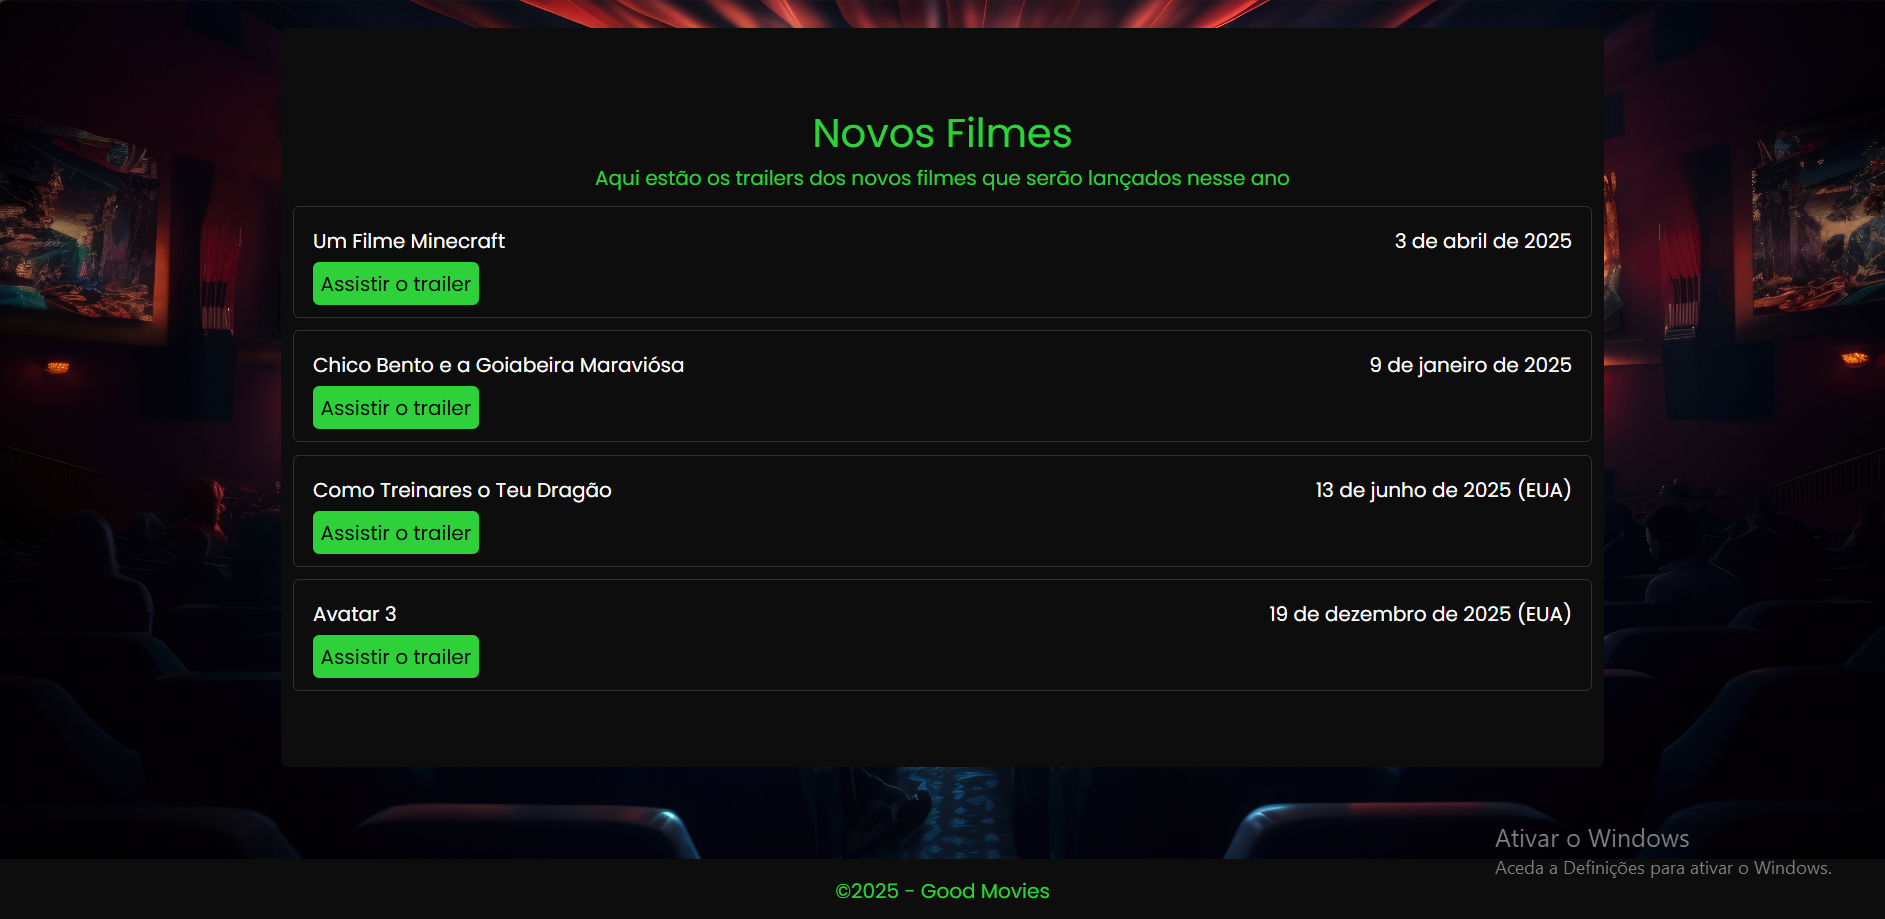
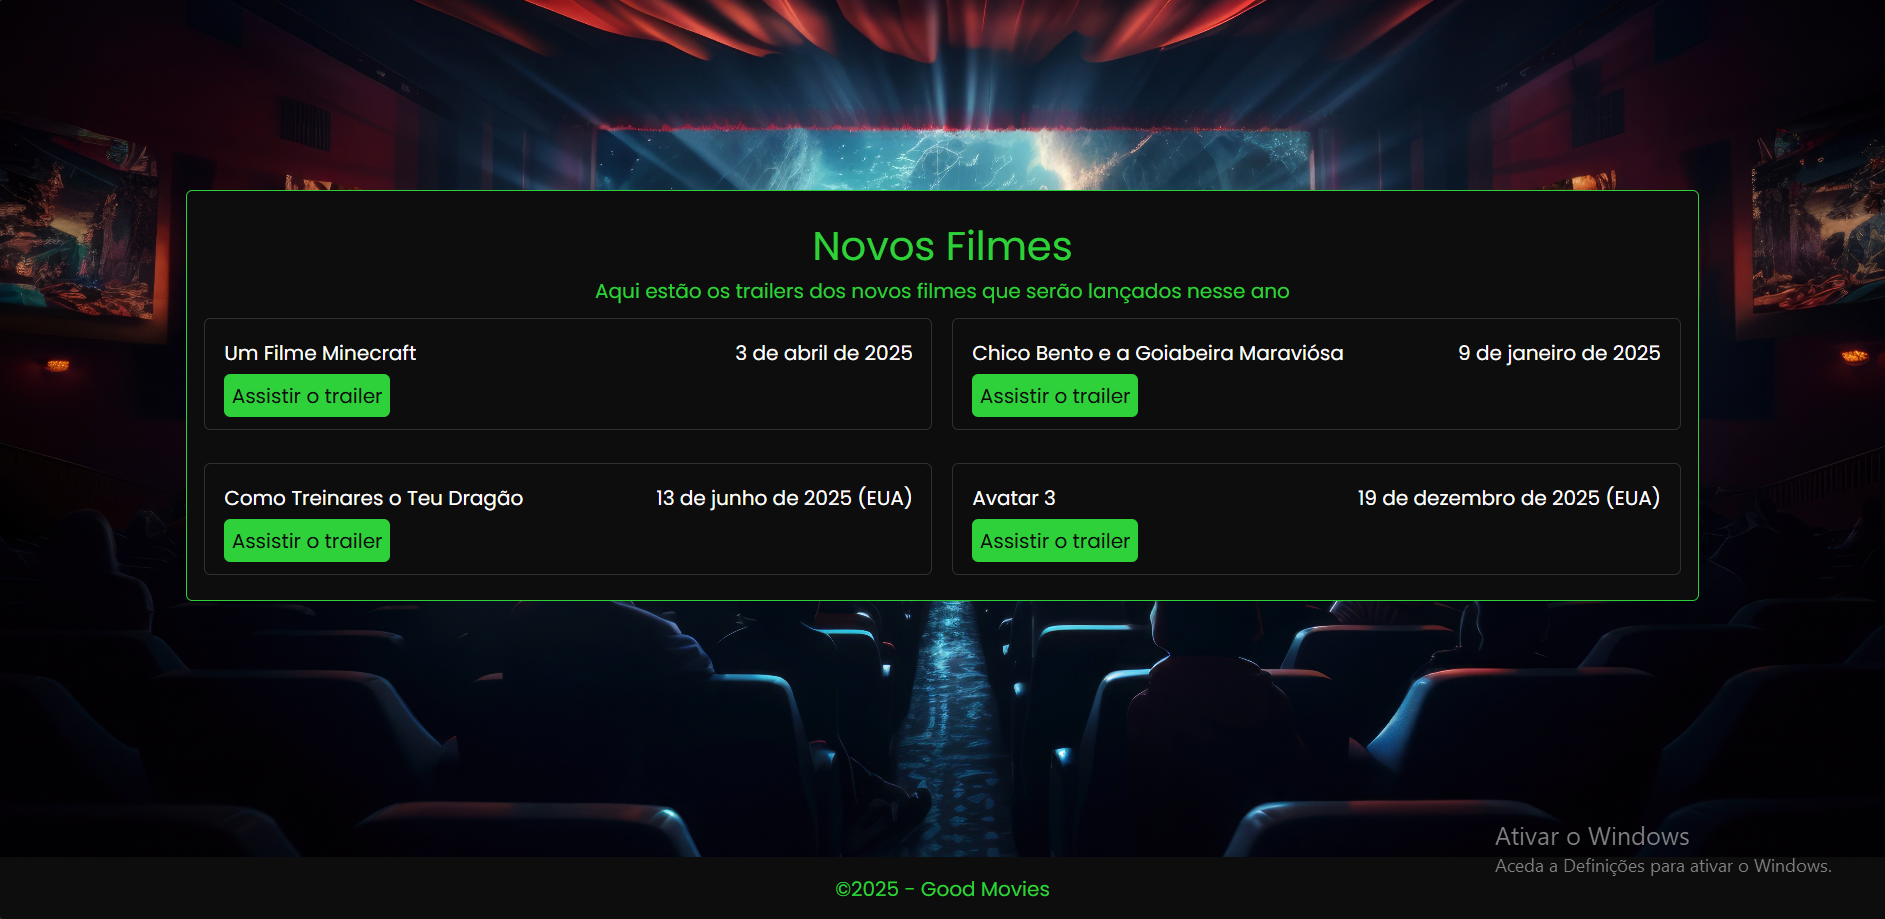
filme

diff --git a/my-app/src/Components/Trailer.js b/my-app/src/Components/Trailer.js
@@ -7,6 +7,7 @@ function Trailer() {
                 <div className="Titulos">
                     <h1>Novos Filmes</h1>
                     <p>Aqui estão os trailers dos novos filmes que serão lançados nesse ano</p>
+                    <div className="Links">
                     <div className="Link">
                         <div className="Banner">
                             <h4>Um Filme Minecraft</h4>
@@ -34,6 +35,7 @@ function Trailer() {
                             <h5>19 de dezembro de 2025 (EUA)</h5>
                         </div>
                         <a href="https://www.youtube.com/watch?v=YXtWPVFk5TQ">Assistir o trailer</a>
+                    </div>
                     </div>
                 </div>
             </div>

diff --git a/my-app/src/Components/Styles/Style.css b/my-app/src/Components/Styles/Style.css
@@ -72,14 +72,14 @@
 }
 
 .Poster{
-    width: 70%;
-    height: 80vh;
+    width: 80%;
     display: flex;
     align-items: center;
     justify-content: center;
     border-radius: 5px;
     background-color: var(--color-black);
-    padding: 10px;
+    border: 1px solid var(--color-green);
+    padding: 20px 10px;
 }
 
 .Titulos{
@@ -102,8 +102,16 @@
 }
 
 /*---Links---*/
-.Link{
+.Links{
     width: 100%;
+    display: flex;
+    align-items: center;
+    justify-content: center;
+    flex-wrap: wrap;
+    gap: 1rem;
+}
+.Link{
+    width: 49%;
     padding: 15px;
     border-radius: 5px;
     margin-top: 10px;
@@ -145,5 +153,8 @@
 
     .Poster{
         width: 90%;
+    }
+    .Link{
+        width: 99%;
     }
 }

diff --git a/README.md b/README.md
@@ -1,8 +1,7 @@
 # Good Movies 🎥
-Bem-Vindo(a), você que gosta de assistir filmes com a família, com os amigos e com seus filho(a)s, aqui temos várias opções de filmes para você.
+- Data: 11/03/2025
 
-## Data
-11/03/2025
+Bem-Vindo(a), você que gosta de assistir filmes com a família, com os amigos e com seus filho(a)s, aqui temos várias opções de filmes para você.
 
 ## Capturas
 <div>
